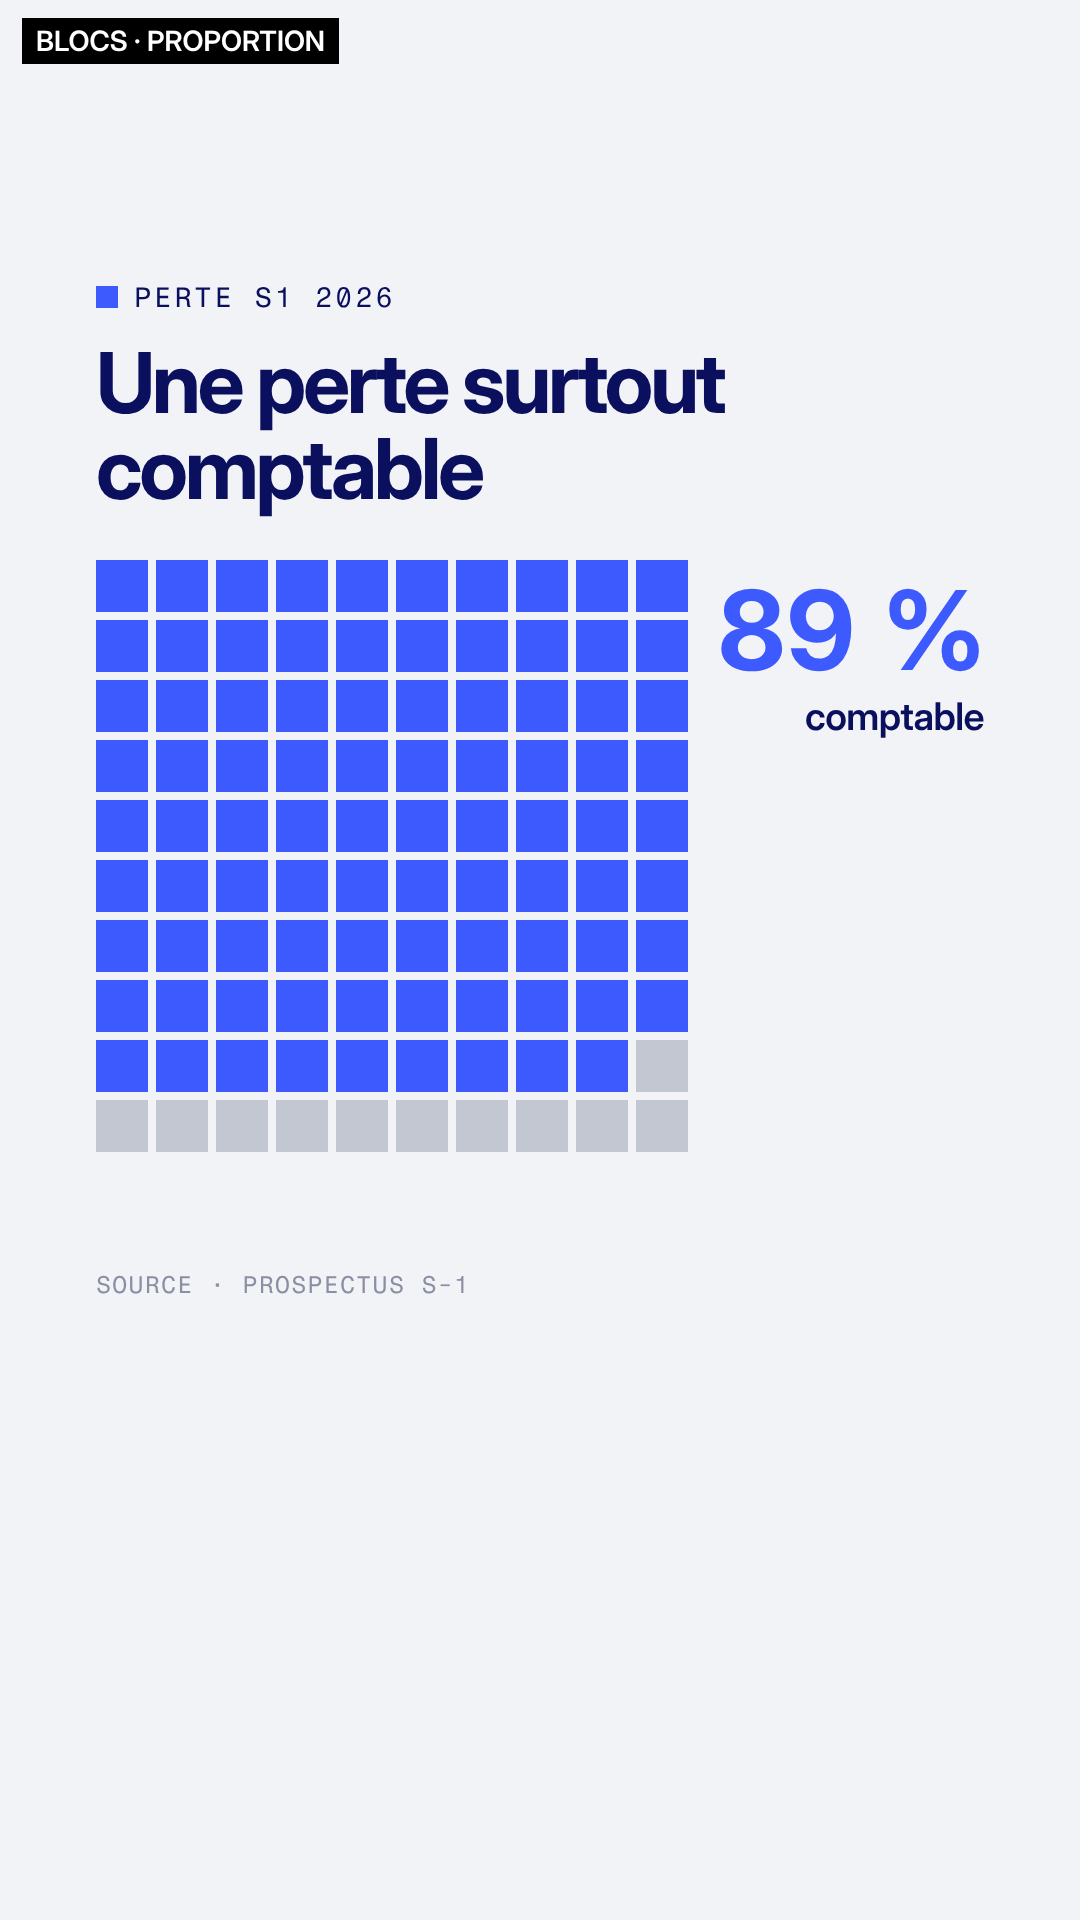
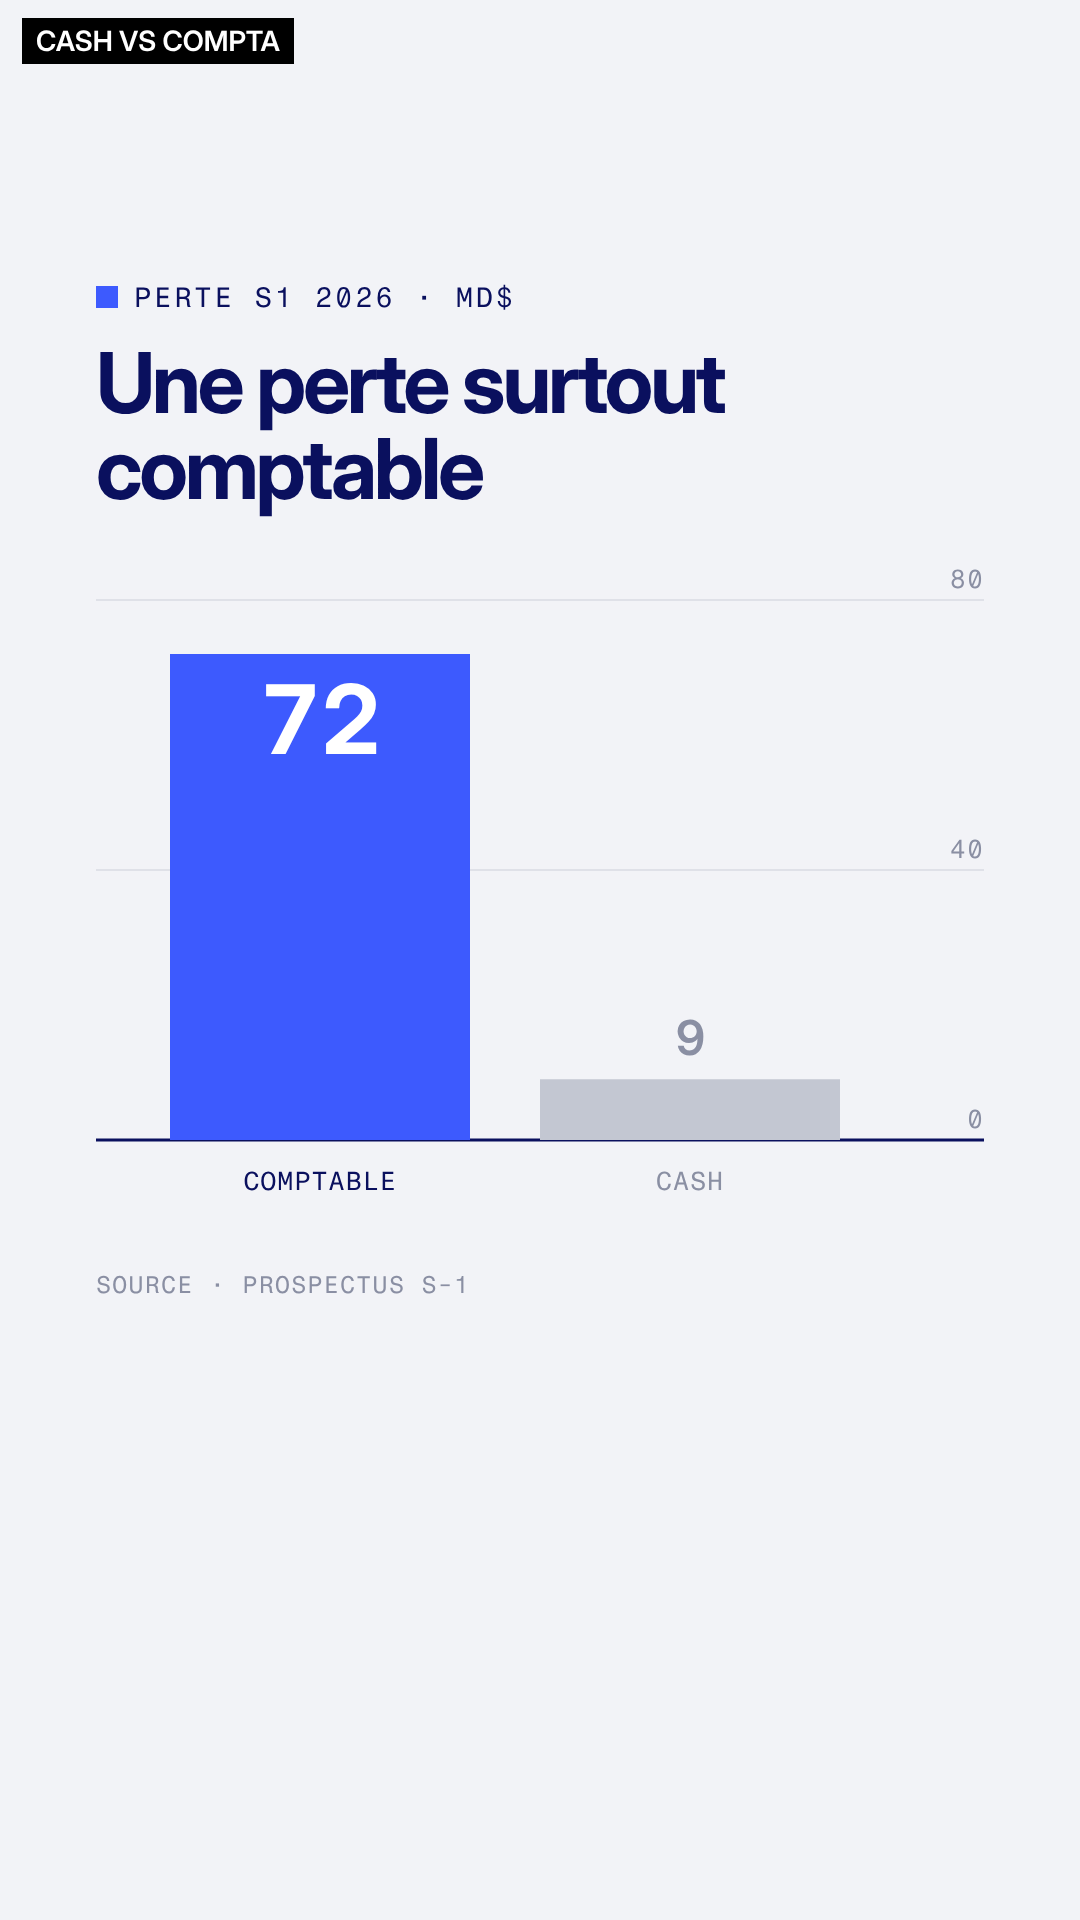
Perte : colonnes comptable vs cash
Claude-Session: https://claude.ai/code/session_0172khLHKtjafTGZdmNpPSJZ

diff --git a/financedata-univers/branding-signal/planche-A3.html b/financedata-univers/branding-signal/planche-A3.html
@@ -36,7 +36,7 @@
   <svg id="s1" width="1080" height="700" style="left:0; top:520px"></svg>
   <div class="src">Source · prospectus S-1</div></div>
 
-<div class="f" id="k2"><div class="lbl">BLOCS · PROPORTION</div><div class="rub"><i></i>Perte S1 2026</div>
+<div class="f" id="k2"><div class="lbl">CASH VS COMPTA</div><div class="rub"><i></i>Perte S1 2026 · Md$</div>
   <div class="ti">Une perte surtout comptable</div>
   <svg id="s2" width="1080" height="700" style="left:0; top:520px"></svg>
   <div class="src">Source · prospectus S-1</div></div>
@@ -85,7 +85,15 @@ function blocks(g, parts, big, bigCol, sub) {
 })();
 
 blocks($("s1"), [[25, FD]], "25 %", FD, "2 clients");
-blocks($("s2"), [[89, FD], [11, GREY]], "89 %", FD, "comptable");
+// perte : colonnes comptable vs cash, seule la part comptable en couleur
+(function () { var g = $("s2"), Y = function (v) { return 620 - v / 80 * 540; };
+  [0, 40, 80].forEach(function (v) { el(g, "line", { x1: 96, x2: 984, y1: Y(v), y2: Y(v), stroke: v ? GRID : NAVY, "stroke-width": v ? 2 : 3 }); T(g, 984, Y(v) - 12, String(v), 26, AX, 400, "end", 1); });
+  el(g, "rect", { x: 170, y: Y(72), width: 300, height: 620 - Y(72), fill: FD });
+  el(g, "rect", { x: 540, y: Y(9), width: 300, height: 620 - Y(9), fill: GREY });
+  T(g, 320, Y(72) + 100, "72", 96, "#fff", 700, "middle");
+  T(g, 690, Y(9) - 24, "9", 48, AX, 600, "middle");
+  T(g, 320, 670, "COMPTABLE", 26, NAVY, 400, "middle", 1); T(g, 690, 670, "CASH", 26, AX, 400, "middle", 1);
+})();
 
 // courbe : bleu FinanceData jusqu'au sommet, rouge ensuite
 (function () { var g = $("s3"), R = window.RMS, tt = function (d) { return +d.slice(0, 4) + (+d.slice(5, 7) - 1) / 12 + (+d.slice(8, 10)) / 365; };
